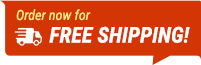
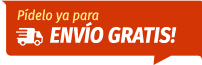
es completed

Changed region(s): [[0.0, 0.0, 0.9552, 0.8615], [0.7463, 0.8615, 0.806, 1.0], [0.0896, 0.4308, 0.1194, 0.4615]]

diff --git a/src/cart-step2.html b/src/cart-step2.html
@@ -21,7 +21,7 @@
     <div class="page-wrap">
       <div class="top-message">
         <div class="container">
-          <p><span class="top-message-capt">INSTANT DISCOUNT ACTIVATED: </span>Recieve 2 free bottles and <span class="shipping-bonus">Free Shipping </span>with your order!</p>
+          <p><span class="top-message-capt">Descuento inmediato activado: </span>Recibe 2 botellas gratis y <span class="shipping-bonus">envío gratuito </span>con tu pedido!</p>
         </div>
       </div>
       <div class="block2"><span class="logo">XXX-CREMA</span>Innovación antiarrugas no quirúrgica
@@ -32,19 +32,19 @@
           <p class="step2-top">Restantes: <img src="img/step2-content-top-img.png"><span class="red"> 7 paquetes</span> con descuento inmediato + envio gratis. Probabilidad de vender todas las existencias: <span class="red upcase">Muy altas</span></p>
           <div class="cart-content clearfix">
             <div class="order-summury">
-              <p class="order-summury-title">your order summary</p>
+              <p class="order-summury-title">EL RESUMEN DE TU PEDIDO</p>
               <ul>
                 <li class="order-summury-item active prod1"><a href="#" class="order-summury-item-link unbind-clik">
-                    <p class="order-summury-item-title">Buy 3 month supply, <span class="red">Get 2 for free!</span></p>
+                    <p class="order-summury-item-title">Compra suministro para 3 meses, <span class="red">Llévate 2 gratis!</span></p>
                     <div class="order-summury-item-checkbox">checkbox</div>
-                    <div class="step2-freeshiping-icon"></div><span class="choose-item-click"><span class="retail-price">precio de venta: C$49.95</span><span class="price-wrap"><span class="price">€29.95</span><span class="per-bottle"><span class="new-string">por</span><span class="new-string">botella</span></span></span></span><span class="best-value">Best value!</span><span class="check-box">Paquete seleccionado</span></a></li>
+                    <div class="step2-freeshiping-icon"></div><span class="choose-item-click"><span class="retail-price">precio de venta: C$49.95</span><span class="price-wrap"><span class="price">€29.95</span><span class="per-bottle"><span class="new-string">por</span><span class="new-string">botella</span></span></span></span><span class="best-value">La mejor opción!</span><span class="check-box">Paquete seleccionado</span></a></li>
                 <li class="order-summury-item prod2"><a href="#" class="order-summury-item-link unbind-clik">
-                    <p class="order-summury-item-title">Buy 2 month supply, <span class="red">Get 1 for free!</span></p>
+                    <p class="order-summury-item-title">Compra suministro para 2 meses, <span class="red">Llévate 1 gratis!</span></p>
                     <div class="order-summury-item-checkbox">checkbox</div>
                     <div class="step2-freeshiping-icon"></div><span class="choose-item-click"><span class="retail-price">precio de venta: C$49.95</span><span class="price-wrap"><span class="price">€36.95</span><span class="per-bottle"><span class="new-string">por</span><span class="new-string">botella</span></span></span></span><span class="check-box">Paquete seleccionado</span></a></li>
                 <li class="order-summury-item prod3"><a href="#" class="order-summury-item-link unbind-clik">
-                    <p class="order-summury-item-title">Buy 1 month supply</p>
-                    <div class="order-summury-item-checkbox">checkbox</div><span class="step2-freeshiping-icon">Order now for free shipping!</span><span class="step2-lowest-price">Get started for our lowest price ever!</span><span class="choose-item-click"><span class="retail-price">precio de venta: C$49.95</span><span class="price-wrap"><span class="price">€39.95</span><span class="per-bottle"><span class="new-string">por</span><span class="new-string">botella</span></span></span></span><span class="check-box">Paquete seleccionado</span></a></li>
+                    <p class="order-summury-item-title">Compra suministro para 1 mes</p>
+                    <div class="order-summury-item-checkbox">checkbox</div><span class="step2-freeshiping-icon">Pídelo ya para envío gratis!</span><span class="step2-lowest-price">Comienza con nuestro paquete más barato!</span><span class="choose-item-click"><span class="retail-price">precio de venta: C$49.95</span><span class="price-wrap"><span class="price">€39.95</span><span class="per-bottle"><span class="new-string">por</span><span class="new-string">botella</span></span></span></span><span class="check-box">Paquete seleccionado</span></a></li>
               </ul>
               <div class="bottoms">
                 <p class="fee-info">*Es posible que se aplique una tasa de envio internacional del 15%</p><img src="img/lang/es/amazon-checkout.png" alt="pic" class="amazon-checkout">

diff --git a/src/page.html b/src/page.html
@@ -34,19 +34,19 @@
           <p class="step2-top">Restantes: <img src="img/step2-content-top-img.png"><span class="red"> 7 paquetes</span> con descuento inmediato + envio gratis. Probabilidad de vender todas las existencias: <span class="red upcase">Muy altas</span></p>
           <div class="cart-content clearfix">
             <div class="order-summury">
-              <p class="order-summury-title">your order summary</p>
+              <p class="order-summury-title">EL RESUMEN DE TU PEDIDO</p>
               <ul>
                 <li class="order-summury-item active prod1"><a href="#" class="order-summury-item-link">
                     <p class="order-summury-item-title">Pro Result<span class="font-regular"> Paquete</span></p>
                     <div class="order-summury-item-checkbox">checkbox</div>
-                    <div class="step2-freeshiping-icon"></div><img src="img/lang/es/save60.png" alt="pic" class="save-img"><span class="choose-item-click"><span class="retail-price">precio de venta: C$49.95</span><span class="price-wrap"><span class="price">€29.95</span><span class="per-bottle"><span class="new-string">por</span><span class="new-string">botella</span></span></span></span><span class="best-value">Recommended!</span><span class="check-box">Paquete seleccionado</span></a></li>
+                    <div class="step2-freeshiping-icon"></div><img src="img/lang/es/save60.png" alt="pic" class="save-img"><span class="choose-item-click"><span class="retail-price">precio de venta: C$49.95</span><span class="price-wrap"><span class="price">€29.95</span><span class="per-bottle"><span class="new-string">por</span><span class="new-string">botella</span></span></span></span><span class="best-value">Recomendado!</span><span class="check-box">Paquete seleccionado</span></a></li>
                 <li class="order-summury-item prod2"><a href="#" class="order-summury-item-link">
                     <p class="order-summury-item-title">Age Off<span class="font-regular"> Paquete</span></p>
                     <div class="order-summury-item-checkbox">checkbox</div>
                     <div class="step2-freeshiping-icon"></div><img src="img/lang/es/save30.png" alt="pic" class="save-img"><span class="choose-item-click"><span class="retail-price">precio de venta: C$49.95</span><span class="price-wrap"><span class="price">€36.95</span><span class="per-bottle"><span class="new-string">por</span><span class="new-string">botella</span></span></span></span><span class="check-box">Paquete seleccionado</span></a></li>
                 <li class="order-summury-item prod3"><a href="#" class="order-summury-item-link">
                     <p class="order-summury-item-title">Starter<span class="font-regular"> Paquete</span></p>
-                    <div class="order-summury-item-checkbox">checkbox</div><span class="step2-freeshiping-icon">Order now for free shipping!</span><img src="img/lang/es/save10.png" alt="pic" class="save-img"><span class="choose-item-click"><span class="retail-price">precio de venta: C$49.95</span><span class="price-wrap"><span class="price">€49.95</span><span class="per-bottle"><span class="new-string">por</span><span class="new-string">botella</span></span></span></span><span class="check-box">Paquete seleccionado</span></a></li>
+                    <div class="order-summury-item-checkbox">checkbox</div><span class="step2-freeshiping-icon">Pídelo ya para envío gratis!</span><img src="img/lang/es/save10.png" alt="pic" class="save-img"><span class="choose-item-click"><span class="retail-price">precio de venta: C$49.95</span><span class="price-wrap"><span class="price">€49.95</span><span class="per-bottle"><span class="new-string">por</span><span class="new-string">botella</span></span></span></span><span class="check-box">Paquete seleccionado</span></a></li>
               </ul>
               <div class="bottoms">
                 <p class="fee-info">*Es posible que se aplique una tasa de envio internacional del 15%</p><img src="img/lang/es/amazon-checkout.png" alt="pic" class="amazon-checkout">

diff --git a/src/css/cart.min.css b/src/css/cart.min.css
@@ -995,6 +995,9 @@ padding-top:0px;
 	color: #5d6062;
 	margin-bottom: 3px
 }
+.es .step2 .order-summury-item-title {
+	font-size: 17px;
+}
 .step2 .order-summury-item-title .red {
 	font: 20px RobotoCondensedBold, sans-serif;
 	color: #9a1918;
@@ -1088,6 +1091,9 @@ padding-top:0px;
 .fr .step2 .order-summury-item .choose-item-click .retail-price:after {
 	right: 42px;
 }
+.es .step2 .order-summury-item .choose-item-click .retail-price:after {
+	right: 27px;
+}
 .step2 .order-summury-item .check-box {
 	position: absolute;
     bottom: -1px;
@@ -1100,6 +1106,9 @@ padding-top:0px;
 	padding: 11px 70px 0 0;
 	background: url(../img/select-package-bg.png) 3px 2px no-repeat;
 	text-align: right
+}
+.es .step2 .order-summury-item .check-box {
+	padding: 11px 45px 0 0;
 }
 .step2 .order-summury-item.active .check-box {
 	position: absolute;
@@ -1114,6 +1123,10 @@ padding-top:0px;
 }
 .fr .step2 .order-summury-item.active .check-box {
 	font-size: 17px;
+}
+.es .step2 .order-summury-item.active .check-box {
+	font-size: 16px;
+	padding: 11px 43px 0 0;
 }
 .step2 .order-summury-item .check-box:after {
 	position: absolute;
@@ -1179,6 +1192,9 @@ padding-top:0px;
 }
 .fr .step2 .order-summury-item:nth-child(1).active>.order-summury-item-link>.best-value {
 	padding: 2px 0 0 86px;
+}
+.es .step2 .order-summury-item:nth-child(1).active>.order-summury-item-link>.best-value {
+	padding: 2px 0 0 76px;
 }
 .bottoms{
 position: absolute;
@@ -1828,6 +1844,10 @@ margin-bottom: 52px;
 	font-size: 16px;
 	padding-top: 9px;
 }
+.es .step4 .order-summury .satisfaction-guarantee {
+	font-size: 15px;
+	padding: 18px 0 0 9px;
+}
 .step4 .order-summury .satisfaction-guarantee sup{
 	text-transform: lowercase;
 }
@@ -1846,8 +1866,20 @@ margin-bottom: 52px;
     right: 83px;
     width: 175px;
 	height: 73px;
-	background: url("../img/final-offer.png") no-repeat;
+	background: url("../img/lang/en/final-offer.png") no-repeat;
 	z-index: 2
+}
+.fr .step4 .order-summury .final-offer {
+	background: url("../img/lang/fr/final-offer.png") no-repeat;
+}
+.es .step4 .order-summury .final-offer {
+	background: url("../img/lang/es/final-offer.png") no-repeat;
+}
+.pl .step4 .order-summury .final-offer {
+	background: url("../img/lang/pl/final-offer.png") no-repeat;
+}
+.it .step4 .order-summury .final-offer {
+	background: url("../img/lang/it/final-offer.png") no-repeat;
 }
 .step4 .order-summury .step4-girl {
 	position: absolute;
@@ -1880,6 +1912,9 @@ margin-bottom: 52px;
 }
 .fr .step4 .order-summury .price-wrap {
 	padding-right: 36px;
+}
+.es .step4 .order-summury .price-wrap {
+	padding-right: 42px;
 }
 .step4 .order-summury .price-wrap .price {
 	display: inline-block;

diff --git a/src/final-offer.html b/src/final-offer.html
@@ -21,7 +21,7 @@
     <div class="page-wrap">
       <div class="top-message">
         <div class="container">
-          <p><span class="top-message-capt">TODAYS SPEСIAL DISCOUNT ACTIVATED: </span>Recieve  <span class="bottle-bonus">bottle-bonus</span> 1 free bottles with your order!</p>
+          <p><span class="top-message-capt">DESCUENTO ESPECIAL ACTIVADO: </span>Consigue  <span class="bottle-bonus">bottle-bonus</span> 1 bote gratis con tu pedido!</p>
         </div>
       </div>
       <div class="container">
@@ -35,12 +35,12 @@
           <div class="cart-content clearfix">
             <div class="order-summury">
               <div class="order-summury-content">
-                <p class="order-summury-title">your order summary</p><span class="satisfaction-guarantee">Buy 1<sup>st</sup>, <span class="yellow">get 2 for free.</span><span class="yellow"><br></span></span><img src="img/lang/es/final-offer.png" alt="pic" class="final-offer"><img src="img/step4-girl.png" alt="pic" class="step4-girl"><img src="img/bonus-bottle-img.png" alt="pic" class="bonus-bottle">
+                <p class="order-summury-title">EL RESUMEN DE TU PEDIDO</p><span class="satisfaction-guarantee">Compra 1, <sup></sup>, <span class="yellow">llévate otro gratis!</span><span class="yellow"><br></span></span><img src="img/lang/es/final-offer.png" alt="pic" class="final-offer"><img src="img/step4-girl.png" alt="pic" class="step4-girl"><img src="img/bonus-bottle-img.png" alt="pic" class="bonus-bottle">
                 <div class="content-right">
-                  <p class="slogan1">Protect yourself from aging!</p>
-                  <p class="slogan2">Renew<br>your youth!</p>
+                  <p class="slogan1">¡Protégete contra el envejecimiento!</p>
+                  <p class="slogan2">¡Renueva tu<br>juventud!</p>
                   <div class="price-wrap"><span class="price">€49.95</span><span class="total">total</span>
-                    <p class="price-slogan">Get a free bottle for starting today!</p>
+                    <p class="price-slogan">Hoy te llevarás una botella gratis!</p>
                   </div>
                 </div>
               </div>
